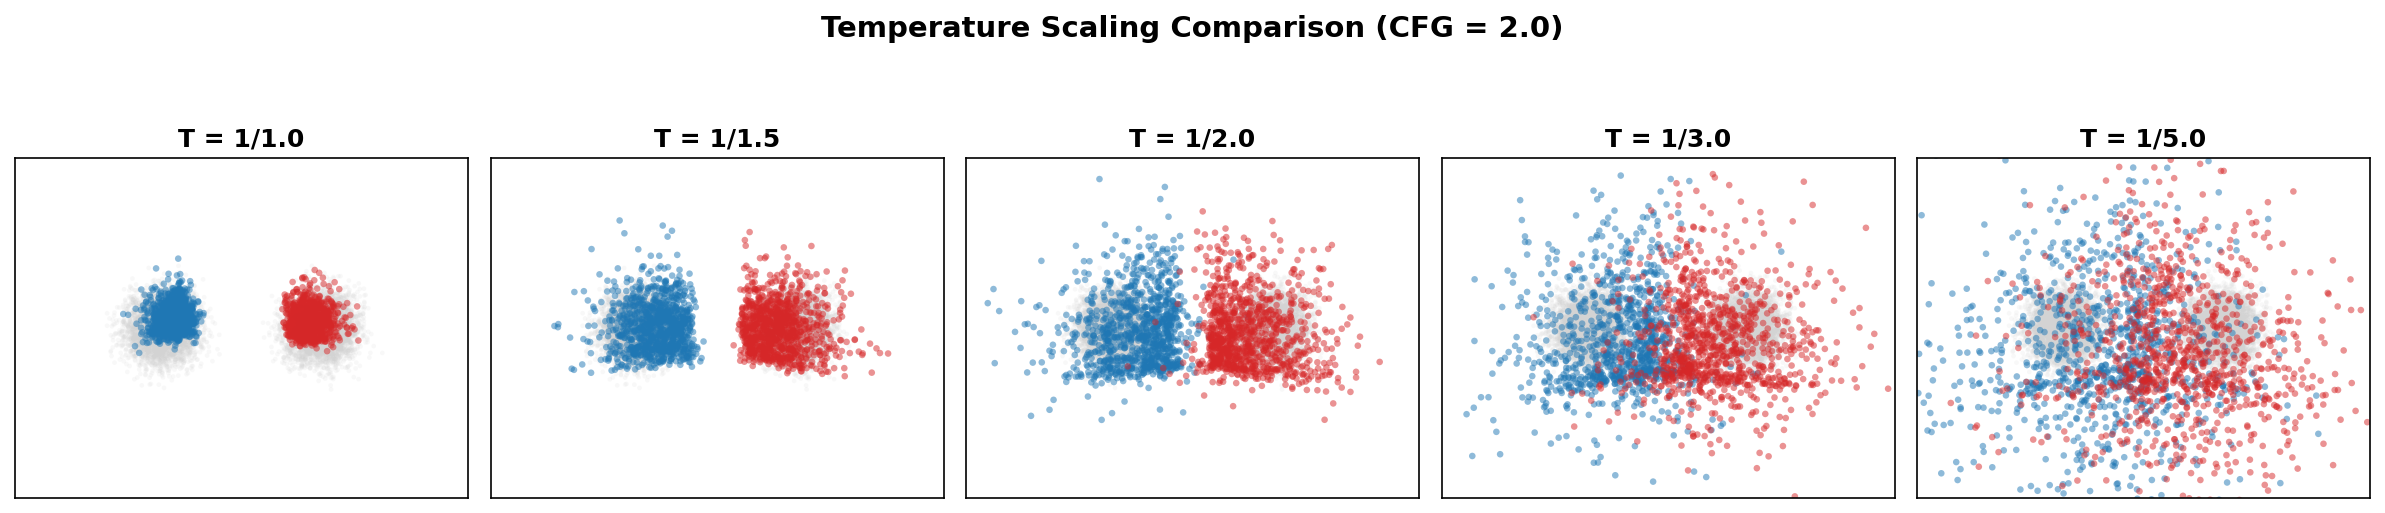
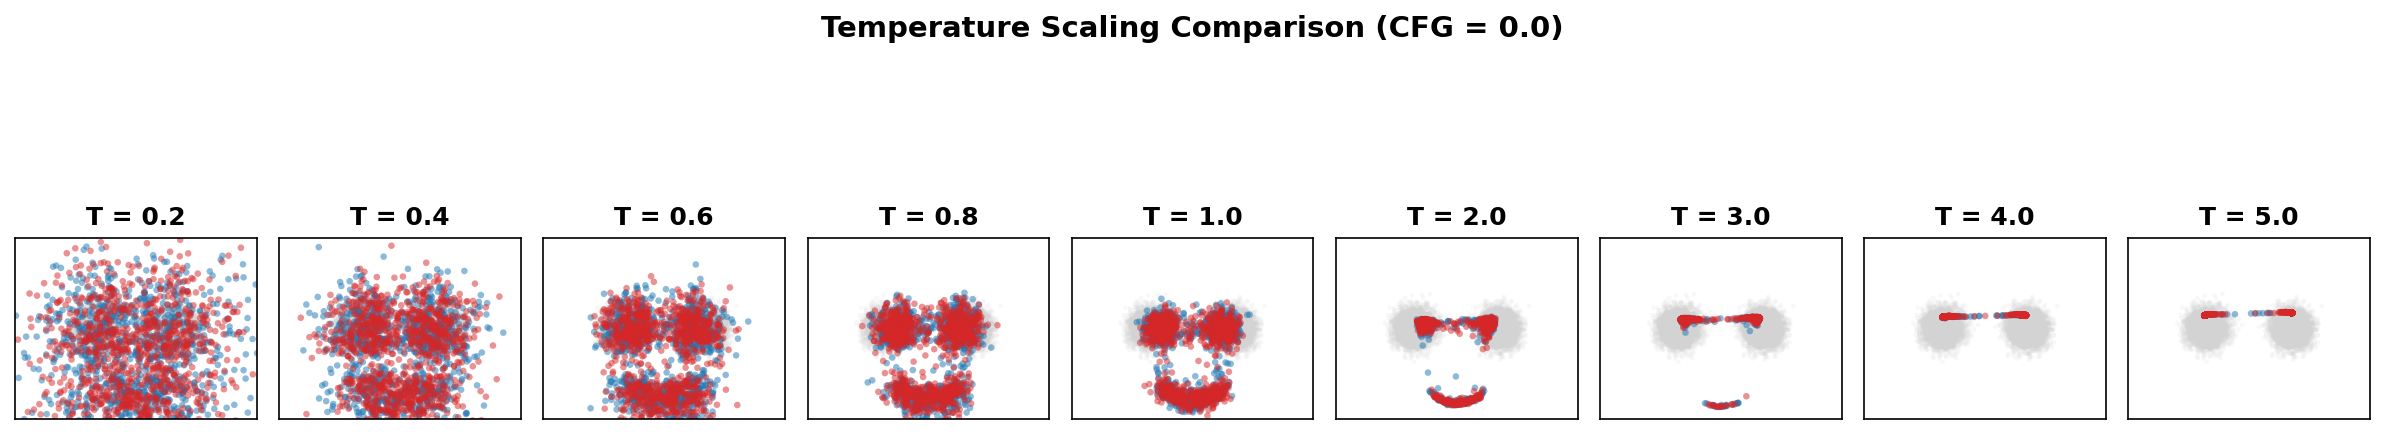
Add temperature clamping comparison and disable CFG for temperature experiments
- Add clamping support to prevent sample divergence at high temperatures
- Add plot_temperature_clamping_comparison for unclamped vs clamped visualization
- Set guidance_scale=0.0 to isolate temperature effects from CFG
- Remove animation generation from CFG temperature script

diff --git a/src/flow_gaussians/visualize_temperature.py b/src/flow_gaussians/visualize_temperature.py
@@ -28,11 +28,13 @@ def sample_euler_temperature(
     cfg_scale: float = 1.0,
     temperature: float = 1.0,
     seed: int | None = None,
+    clamp_range: tuple[float, float] | None = None,
 ) -> np.ndarray:
     """Sample with Euler ODE + CFG + temperature scaling.
 
     Args:
         temperature: Multiply velocity by this. <1 = more concentrated, >1 = more spread.
+        clamp_range: If provided, clip x to (lo, hi) after each Euler step.
     """
     if seed is not None:
         np.random.seed(seed)
@@ -50,6 +52,8 @@ def sample_euler_temperature(
         v = v_uncond + cfg_scale * (v_cond - v_uncond)
         v = v * temperature
         x = x + v * dt
+        if clamp_range is not None:
+            x = np.clip(x, clamp_range[0], clamp_range[1])
 
     return x
 
@@ -151,6 +155,112 @@ def plot_temperature_comparison(
     return fig
 
 
+def plot_temperature_clamping_comparison(
+    model: SimpleFlowNetwork,
+    data: np.ndarray,
+    labels: np.ndarray,
+    temperature_values: List[float],
+    clamp_range: tuple[float, float],
+    cfg_scale: float = 1.0,
+    n_samples: int = 500,
+    save_path: Optional[str] = None,
+    class0_centers: Optional[List[List[float]]] = None,
+    class1_centers: Optional[List[List[float]]] = None,
+    seed: int = 42,
+    dataset_title: str = "",
+):
+    """Comparison grid: 4 rows (class0 unclamped, class0 clamped, class1 unclamped, class1 clamped) × N temperature cols."""
+    n_cols = len(temperature_values)
+    fig, axes = plt.subplots(4, n_cols, figsize=(4 * n_cols, 16))
+
+    mask_0 = labels == 0
+    mask_1 = labels == 1
+
+    # Row config: (target_label, use_clamping, row_label)
+    row_configs = [
+        (0, False, "Class 0 — unclamped"),
+        (0, True, "Class 0 — clamped"),
+        (1, False, "Class 1 — unclamped"),
+        (1, True, "Class 1 — clamped"),
+    ]
+
+    # Pre-generate all samples
+    all_samples = {}
+    for row_idx, (target_label, use_clamp, _) in enumerate(row_configs):
+        for col_idx, temp in enumerate(temperature_values):
+            samples = sample_euler_temperature(
+                model, n_samples, target_label,
+                num_steps=100, cfg_scale=cfg_scale,
+                temperature=temp,
+                seed=seed + target_label,
+                clamp_range=clamp_range if use_clamp else None,
+            )
+            all_samples[(row_idx, col_idx)] = samples
+
+    # Compute per-column axis limits (shared across all 4 rows)
+    col_limits = {}
+    for col_idx, temp in enumerate(temperature_values):
+        all_col_pts = np.vstack([all_samples[(r, col_idx)] for r in range(4)])
+        margin = 0.5
+        max_abs = max(
+            np.abs(all_col_pts).max(),
+            max(max(abs(c[0]), abs(c[1])) for c in (class0_centers or []) + (class1_centers or [])) + 1.0,
+        )
+        col_limits[col_idx] = (-max_abs - margin, max_abs + margin)
+
+    for row_idx, (target_label, use_clamp, row_label) in enumerate(row_configs):
+        for col_idx, temp in enumerate(temperature_values):
+            ax = axes[row_idx, col_idx]
+            samples = all_samples[(row_idx, col_idx)]
+
+            # Training data (faded)
+            ax.scatter(data[mask_0, 0], data[mask_0, 1], c="gray", alpha=0.15, s=5)
+            ax.scatter(data[mask_1, 0], data[mask_1, 1], c="lightcoral", alpha=0.15, s=5)
+
+            # Generated samples
+            color = "#3498db" if target_label == 0 else "#e74c3c"
+            ax.scatter(
+                samples[:, 0], samples[:, 1],
+                c=color, edgecolors="black", linewidths=0.5,
+                alpha=0.7, s=30,
+            )
+
+            # Accuracy
+            predicted = classify_samples(samples, class0_centers, class1_centers)
+            accuracy = np.sum(predicted == target_label) / n_samples
+            box_color = "#90EE90" if accuracy >= 0.9 else ("#FFFF99" if accuracy >= 0.7 else "#FFB6C1")
+            ax.text(
+                0.02, 0.98, f"Acc: {accuracy:.1%}",
+                transform=ax.transAxes, fontsize=9, verticalalignment="top",
+                bbox=dict(boxstyle="round", facecolor=box_color, alpha=0.8),
+            )
+
+            cl = col_limits[col_idx]
+            ax.set_xlim(cl)
+            ax.set_ylim(cl)
+            ax.set_aspect("equal")
+            ax.grid(True, alpha=0.3)
+            ax.set_xticks([])
+            ax.set_yticks([])
+            if row_idx == 0:
+                ax.set_title(f"T = {temp}", fontsize=25)
+            if col_idx == 0:
+                ax.set_ylabel(row_label, fontsize=14)
+
+    fig.suptitle(
+        f"Temperature Clamping Comparison — {dataset_title} (CFG = {cfg_scale})",
+        fontsize=16, fontweight="bold", y=1.02,
+    )
+    plt.tight_layout()
+
+    if save_path:
+        plt.savefig(save_path, dpi=150, bbox_inches="tight")
+        logger.info(f"Saved: {save_path}")
+
+    plt.close(fig)
+    return fig
+
+
 @hydra.main(version_base=None, config_path="conf", config_name="config")
 def main(cfg: DictConfig) -> None:
     """Generate temperature-scaled comparison PNGs for flow Gaussians."""
@@ -190,8 +300,13 @@ def main(cfg: DictConfig) -> None:
 
     # Temperature values: <1 = more concentrated, 1 = baseline, >1 = more spread
     temperature_values = [0.2, 0.4, 0.6, 0.8, 1.0, 2.0, 3.0, 4.0, 5.0]
-    cfg_scale = 1.0
+    cfg_scale = 0.0
     n_samples = cfg.visualization.get("n_samples", 500)
+
+    # Data-driven clamp bounds (99.5th percentile + margin)
+    clamp_bound = np.percentile(np.abs(data), 99.5) + 0.5
+    clamp_range = (-clamp_bound, clamp_bound)
+    logger.info(f"Clamp range: [{-clamp_bound:.2f}, {clamp_bound:.2f}]")
 
     logger.info(f"Generating temperature comparison for {dataset_name}...")
     plot_temperature_comparison(
@@ -203,6 +318,19 @@ def main(cfg: DictConfig) -> None:
         class0_centers=class0_centers,
         class1_centers=class1_centers,
         xlim=xlim, ylim=ylim,
+        dataset_title=dataset_config["title"],
+    )
+
+    logger.info(f"Generating clamping comparison for {dataset_name}...")
+    plot_temperature_clamping_comparison(
+        model, data, labels,
+        temperature_values=temperature_values,
+        clamp_range=clamp_range,
+        cfg_scale=cfg_scale,
+        n_samples=n_samples,
+        save_path=str(viz_dir / "temperature_clamping_comparison.png"),
+        class0_centers=class0_centers,
+        class1_centers=class1_centers,
         dataset_title=dataset_config["title"],
     )
 

diff --git a/src/cfg/visualize_temperature.py b/src/cfg/visualize_temperature.py
@@ -413,7 +413,7 @@ def main(cfg: DictConfig) -> None:
     # Parameters
     n_vis_samples = min(2000, cfg.data.n_samples)
     n_per_class = n_vis_samples // 2
-    guidance_scale = 1.0
+    guidance_scale = 0.0
 
     # Temperature values: <1 = more concentrated, 1 = baseline, >1 = more spread
     temperature_values = [0.2, 0.4, 0.6, 0.8, 1.0, 2.0, 3.0, 4.0, 5.0]
@@ -436,42 +436,6 @@ def main(cfg: DictConfig) -> None:
         save_path=output_dir / "temperature_comparison.png",
         dpi=150,
     )
-
-    # 2. Generate trajectory and probability path animations for each temperature
-    for temp in temperature_values:
-        logger.info(f"Generating visualizations for temperature = 1/{temp}...")
-
-        trajectory = model.sample_trajectory(
-            n_samples=n_vis_samples,
-            class_labels=class_labels,
-            n_steps=cfg.visualization.n_sampling_steps,
-            guidance_scale=guidance_scale,
-            temperature=temp,
-        )
-
-        # Trajectory animation
-        create_temperature_trajectory_animation(
-            trajectory,
-            class_labels_cpu,
-            output_dir / f"trajectory_temp_{temp:.1f}.gif",
-            temperature=temp,
-            guidance_scale=guidance_scale,
-            n_particles=cfg.visualization.get("n_particles", 100),
-            fps=cfg.visualization.get("animation_fps", 20),
-            dpi=cfg.visualization.get("animation_dpi", 100),
-        )
-
-        # Probability path animation
-        create_temperature_probability_path(
-            trajectory,
-            class_labels_cpu,
-            output_dir / f"probability_path_temp_{temp:.1f}.gif",
-            temperature=temp,
-            guidance_scale=guidance_scale,
-            fps=cfg.visualization.get("animation_fps", 20),
-            dpi=cfg.visualization.get("animation_dpi", 100),
-            grid_size=cfg.visualization.get("density_grid_size", 100),
-        )
 
     logger.info(f"Temperature-scaled visualization complete! Outputs in {output_dir}")
 
